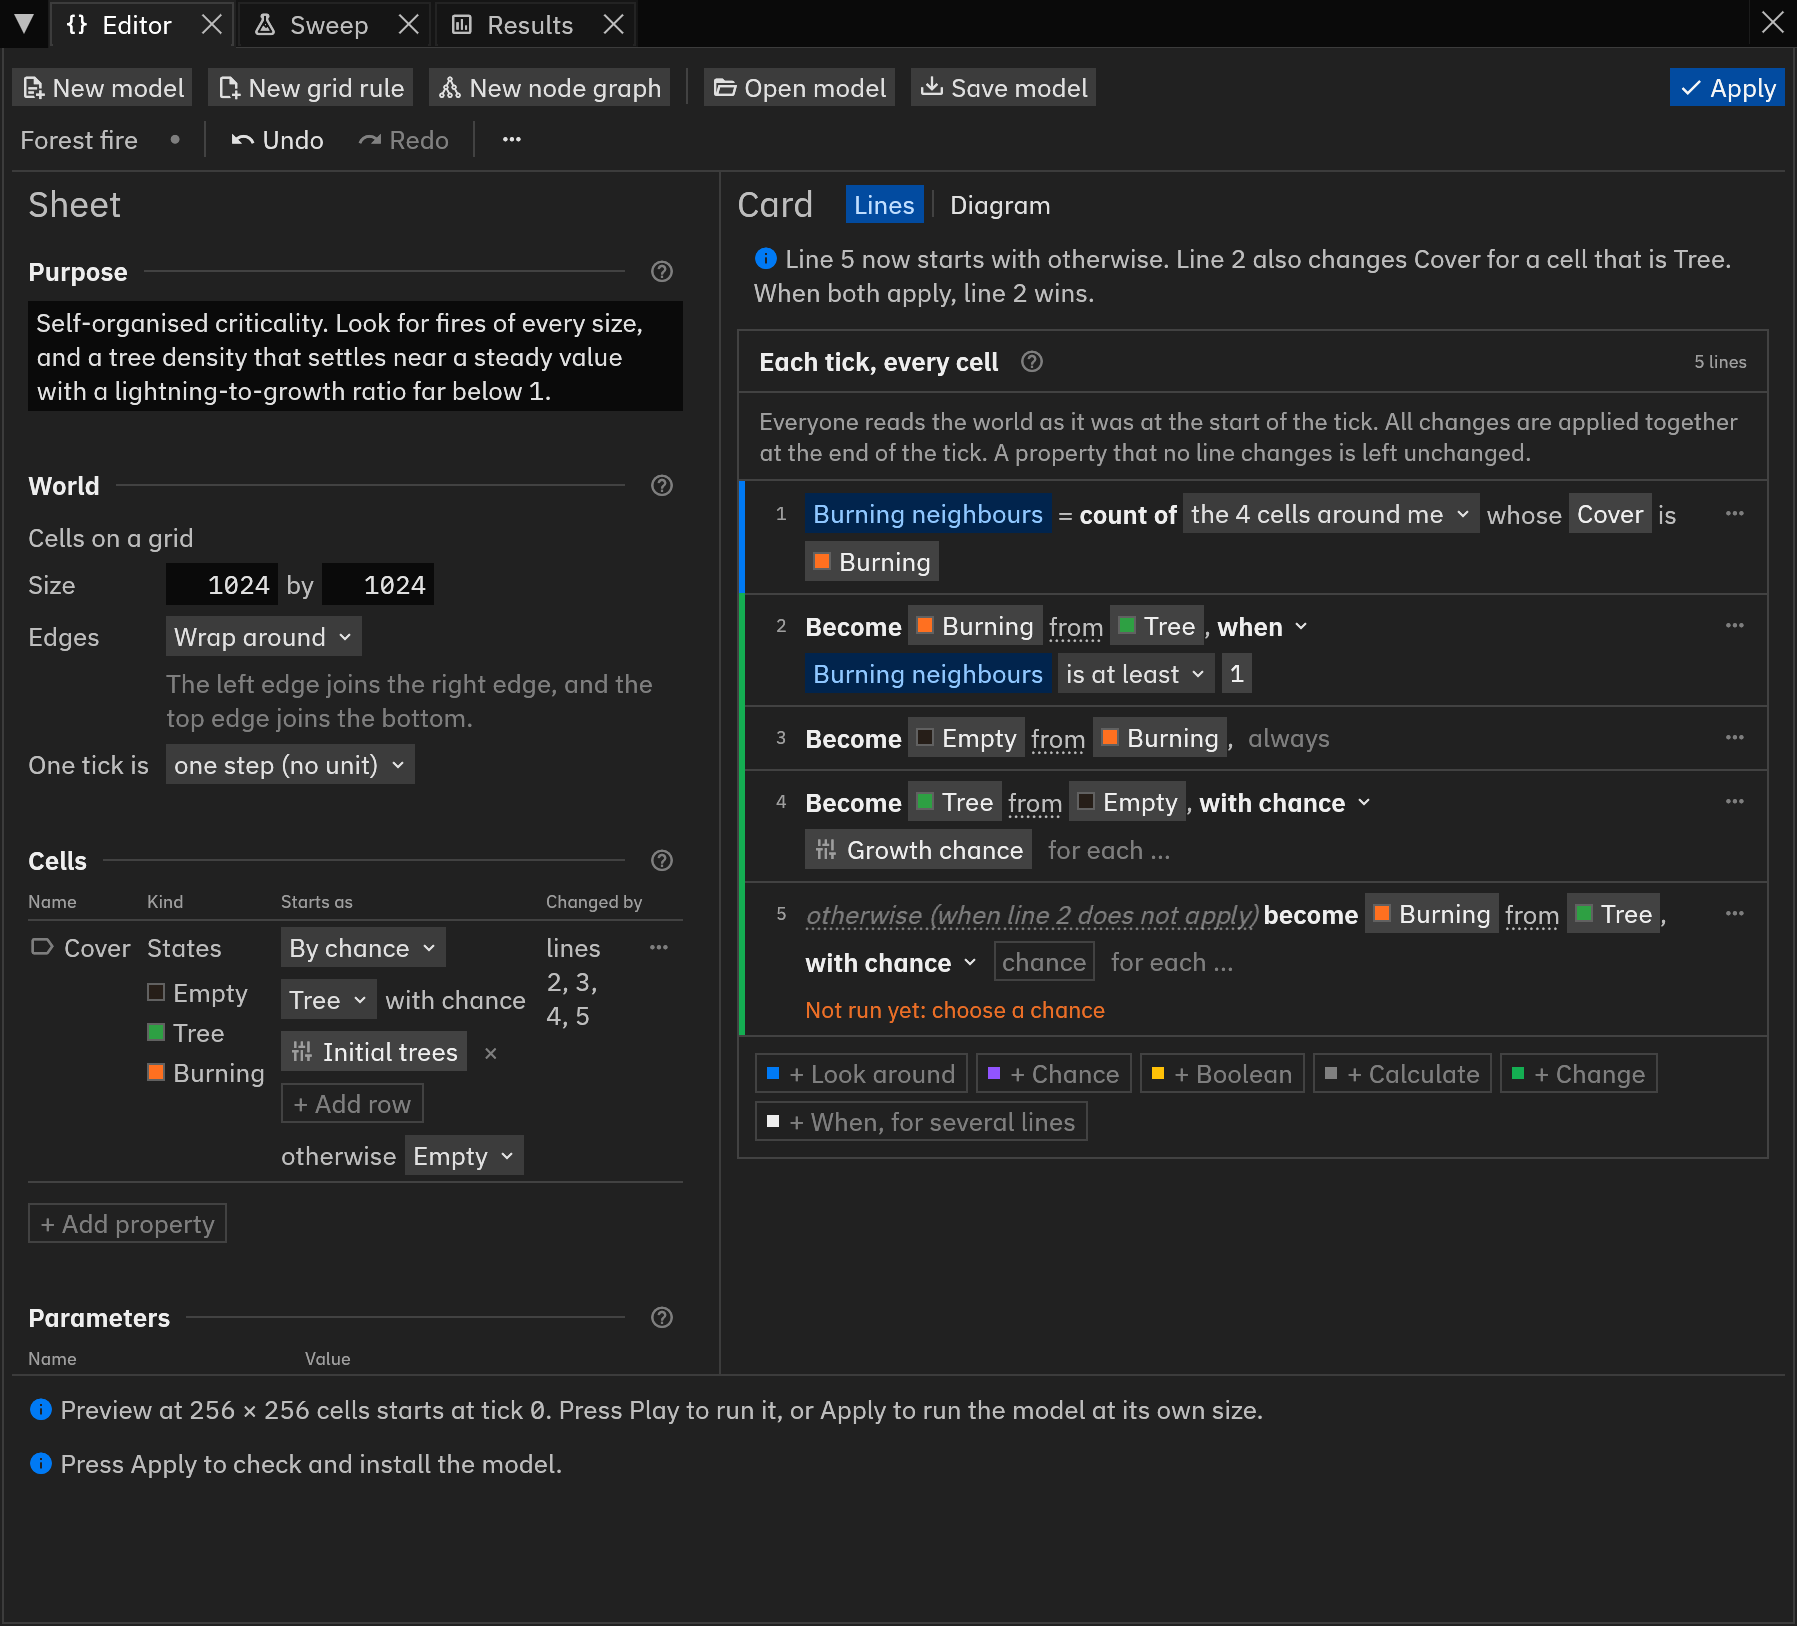
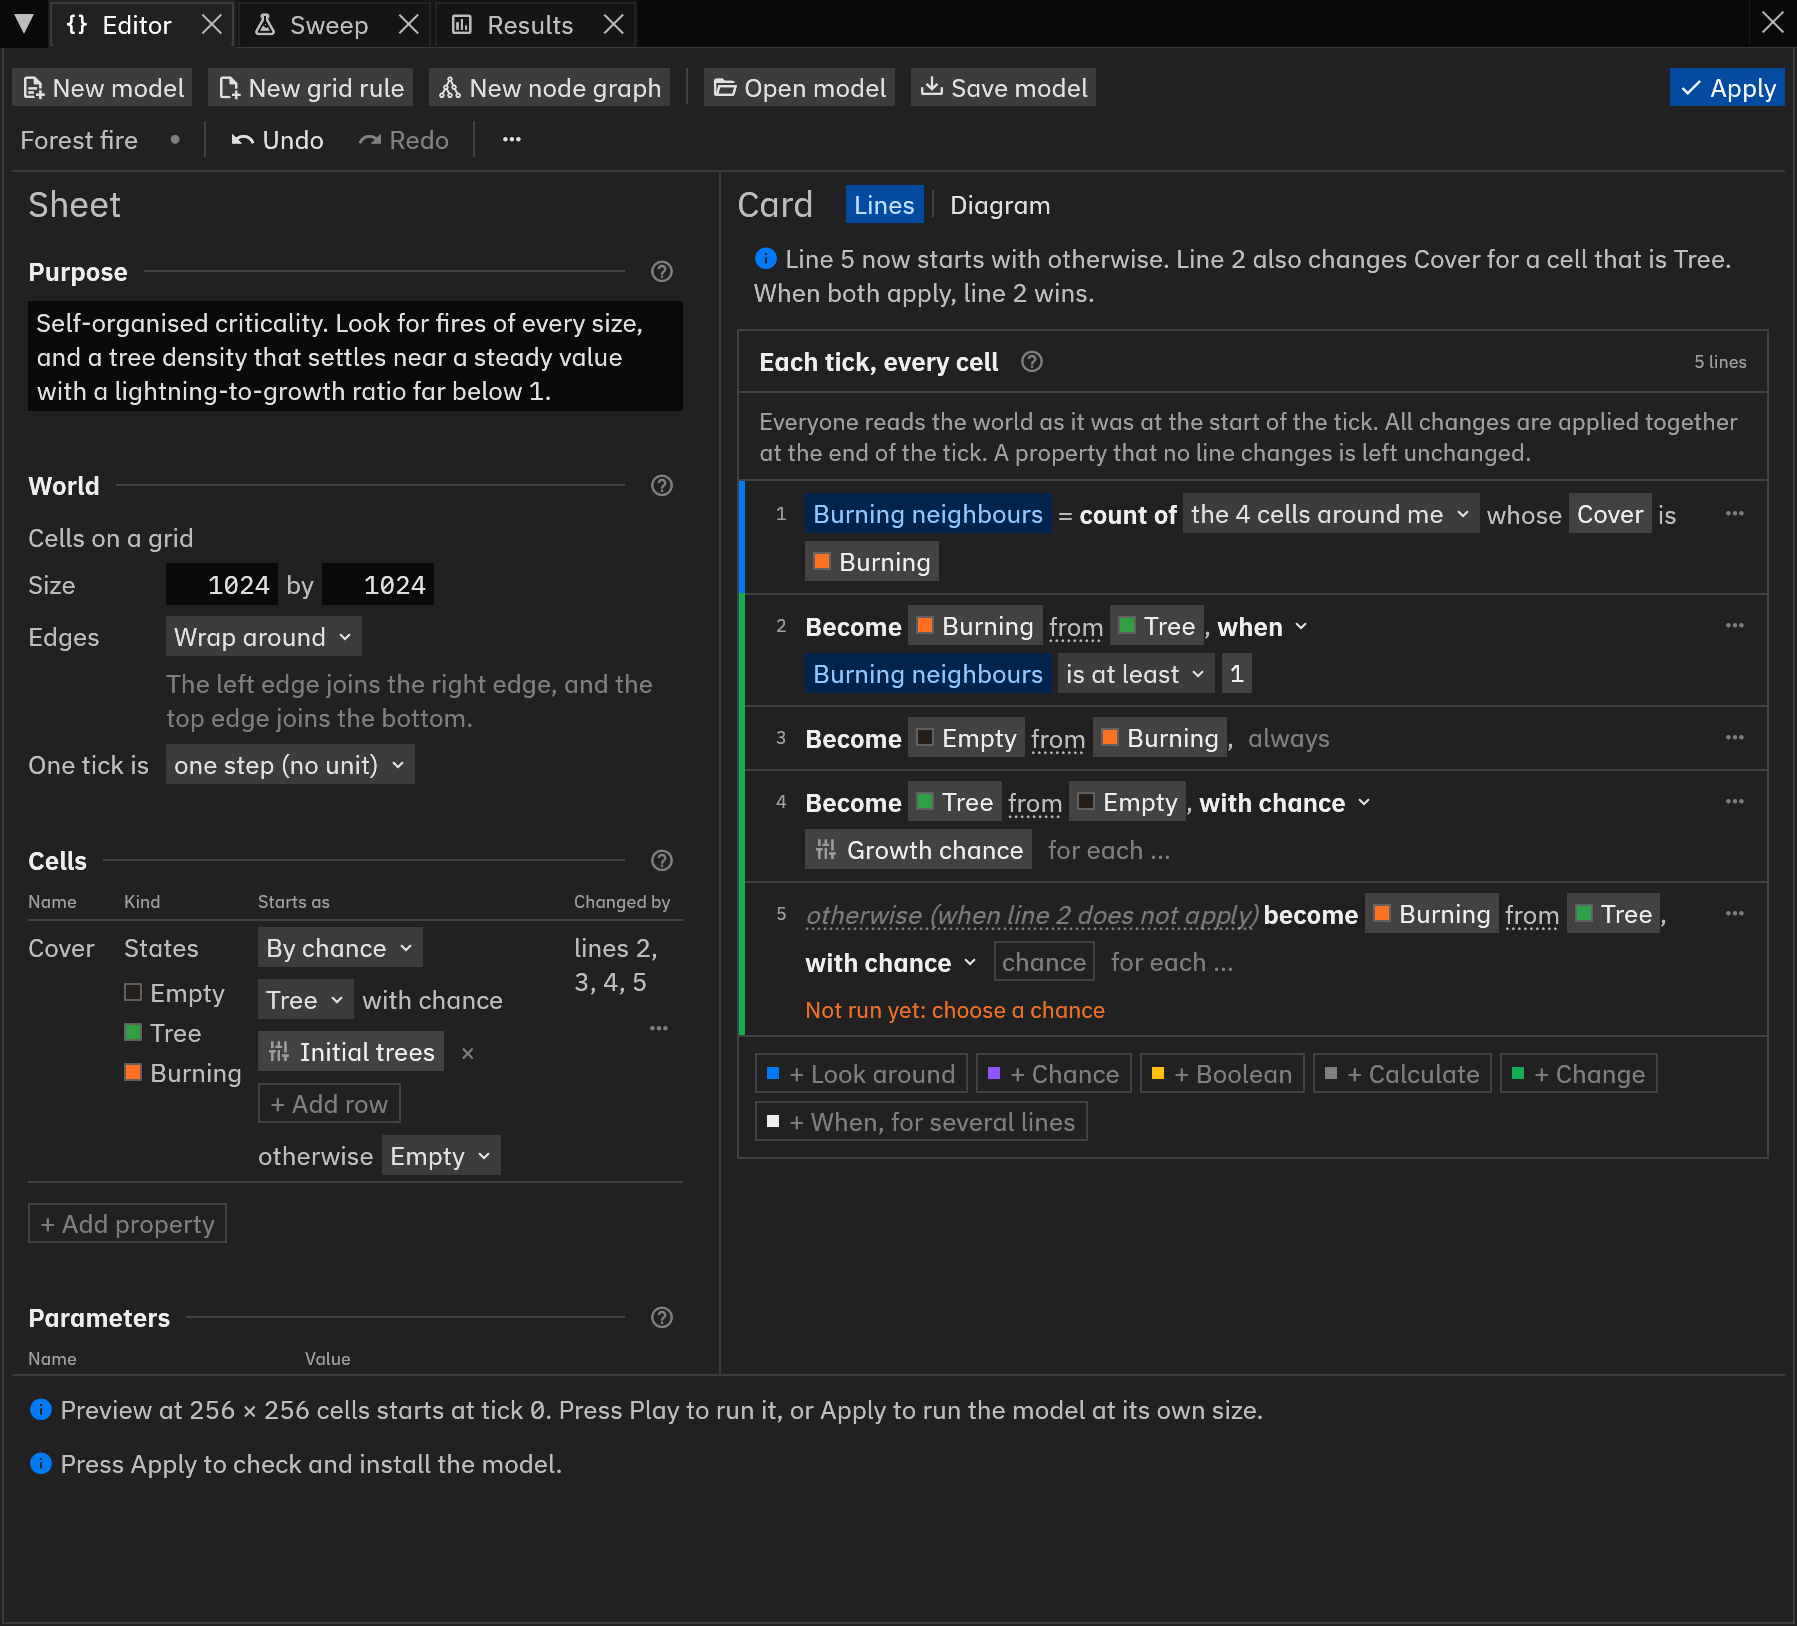
docs: retake sheet and picker shots

Changed region(s): [[0.0623, 0.5535, 0.3116, 0.738], [0.3116, 0.5535, 0.374, 0.615]]

diff --git a/docs/guide/editor.md b/docs/guide/editor.md
@@ -144,7 +144,7 @@ A number takes a typed number, a result of a line above, one of the cell's prope
 A chance takes a number from 0 to 1 or a percent such as 30%, and rejects anything else as you type it.
 "is one of the numbers" takes a list, such as 2, 3, typed in one go.
 
-![The card of a forest fire with a When block at line 6, its value chip open on the Choose a value picker, which lists Burning neighbours from line 1, my Cover and three parameters, with Burning neighbours and the parameters greyed](../assets/app/editor-picker.png){ width="536" }
+![The card of a forest fire with the chip 1 on line 2 open on the Choose a number picker, which shows the 1 in its number box beside Use, then Burning neighbours from line 1, three parameters and New parameter…](../assets/app/editor-picker.png){ width="536" }
 
 After a choice the keyboard moves to the next blank of the line.
 An empty state blank opens by itself, as does the upper number of "is less than … or more than …" after the lower one.
